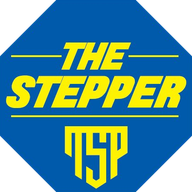
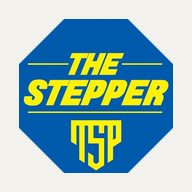
큰 아이콘 바탕·여백, site.webmanifest 추가
- apple-touch-icon(180)·icon-192·icon-512: 투명 없이 #F2F1EC 바탕, 후보 B 배지 둘레 각 변 10% 여백
- tools/favicon/make.cjs 에 --bg · --pad 옵션 (기본 #F2F1EC · 10). 작은 아이콘(favicon.ico·favicon-32x32.png)은 그대로
- site.webmanifest(THE STEPPER, icon-192·512, 바탕·테마색 #F2F1EC) — 14쪽 head 에 링크, .vercelignore 배포 목록에 추가
  (voice.html 은 관리자 음성 답변 앱용 voice-manifest.json 을 이미 써서 넣지 않음 — 한 페이지에 manifest 는 하나만 쓰임)

diff --git a/motion.html b/motion.html
@@ -8,6 +8,7 @@
 <link rel="icon" type="image/png" sizes="32x32" href="/favicon-32x32.png">
 <link rel="icon" type="image/png" sizes="192x192" href="/icon-192.png">
 <link rel="apple-touch-icon" sizes="180x180" href="/apple-touch-icon.png">
+<link rel="manifest" href="/site.webmanifest">
 <meta name="robots" content="noindex, nofollow">
 <!-- ══════════════════════════════════════════════════════════════════
      동작 분석 (파이썬 분석 서버 버전) — 현재 관리자 전용

diff --git a/ai.html b/ai.html
@@ -9,6 +9,7 @@
 <link rel="icon" type="image/png" sizes="32x32" href="/favicon-32x32.png">
 <link rel="icon" type="image/png" sizes="192x192" href="/icon-192.png">
 <link rel="apple-touch-icon" sizes="180x180" href="/apple-touch-icon.png">
+<link rel="manifest" href="/site.webmanifest">
 <link rel="preconnect" href="https://fonts.googleapis.com">
 <meta name="description" content="더스텝퍼 AI 겨루기 코치 - 15단계 커리큘럼 기반 실시간 태권도 겨루기 전술 질문 답변">
 <meta name="keywords" content="더스텝퍼,태권도,겨루기,AI코치,전술,커리큘럼,THE STEPPER">

diff --git a/motion-legacy.html b/motion-legacy.html
@@ -8,6 +8,7 @@
 <link rel="icon" type="image/png" sizes="32x32" href="/favicon-32x32.png">
 <link rel="icon" type="image/png" sizes="192x192" href="/icon-192.png">
 <link rel="apple-touch-icon" sizes="180x180" href="/apple-touch-icon.png">
+<link rel="manifest" href="/site.webmanifest">
 <!-- ══════════════════════════════════════════════════════════════════
      [보관용 백업] 구 동작분석 페이지 (브라우저 MediaPipe 15fps 버전)
 

diff --git a/schedule.html b/schedule.html
@@ -10,6 +10,7 @@
 <link rel="icon" type="image/png" sizes="32x32" href="/favicon-32x32.png">
 <link rel="icon" type="image/png" sizes="192x192" href="/icon-192.png">
 <link rel="apple-touch-icon" sizes="180x180" href="/apple-touch-icon.png">
+<link rel="manifest" href="/site.webmanifest">
 <link rel="preconnect" href="https://fonts.googleapis.com">
 <link rel="preconnect" href="https://firebasestorage.googleapis.com">
 <meta name="description" content="더스텝퍼 - 대한민국 표준 태권도 겨루기 전술 시스템. 15단계 커리큘럼과 전국 세미나.">

diff --git a/contact.html b/contact.html
@@ -9,6 +9,7 @@
 <link rel="icon" type="image/png" sizes="32x32" href="/favicon-32x32.png">
 <link rel="icon" type="image/png" sizes="192x192" href="/icon-192.png">
 <link rel="apple-touch-icon" sizes="180x180" href="/apple-touch-icon.png">
+<link rel="manifest" href="/site.webmanifest">
 <link rel="preconnect" href="https://fonts.googleapis.com">
 <link rel="preconnect" href="https://firebasestorage.googleapis.com">
 <meta name="description" content="더스텝퍼 - 대한민국 표준 태권도 겨루기 전술 시스템. 15단계 커리큘럼과 전국 세미나.">

diff --git a/index.html b/index.html
@@ -9,6 +9,7 @@
 <link rel="icon" type="image/png" sizes="32x32" href="/favicon-32x32.png">
 <link rel="icon" type="image/png" sizes="192x192" href="/icon-192.png">
 <link rel="apple-touch-icon" sizes="180x180" href="/apple-touch-icon.png">
+<link rel="manifest" href="/site.webmanifest">
 <link rel="preconnect" href="https://firebasestorage.googleapis.com">
 <link rel="preconnect" href="https://fonts.googleapis.com">
 <meta name="description" content="더스텝퍼 - 대한민국 표준 태권도 겨루기 전술 시스템. 15단계 커리큘럼과 전국 세미나.">

diff --git a/locations.html b/locations.html
@@ -9,6 +9,7 @@
 <link rel="icon" type="image/png" sizes="32x32" href="/favicon-32x32.png">
 <link rel="icon" type="image/png" sizes="192x192" href="/icon-192.png">
 <link rel="apple-touch-icon" sizes="180x180" href="/apple-touch-icon.png">
+<link rel="manifest" href="/site.webmanifest">
 <link rel="preconnect" href="https://fonts.googleapis.com">
 <link rel="preconnect" href="https://firebasestorage.googleapis.com">
 <meta name="description" content="더스텝퍼 - 대한민국 표준 태권도 겨루기 전술 시스템. 15단계 커리큘럼과 전국 세미나.">

diff --git a/staff.html b/staff.html
@@ -9,6 +9,7 @@
 <link rel="icon" type="image/png" sizes="32x32" href="/favicon-32x32.png">
 <link rel="icon" type="image/png" sizes="192x192" href="/icon-192.png">
 <link rel="apple-touch-icon" sizes="180x180" href="/apple-touch-icon.png">
+<link rel="manifest" href="/site.webmanifest">
 <link rel="preconnect" href="https://firebasestorage.googleapis.com">
 <link rel="preconnect" href="https://fonts.googleapis.com">
 <meta name="description" content="더스텝퍼 - 대한민국 표준 태권도 겨루기 전술 시스템. 15단계 커리큘럼과 전국 세미나.">

diff --git a/board.html b/board.html
@@ -9,6 +9,7 @@
 <link rel="icon" type="image/png" sizes="32x32" href="/favicon-32x32.png">
 <link rel="icon" type="image/png" sizes="192x192" href="/icon-192.png">
 <link rel="apple-touch-icon" sizes="180x180" href="/apple-touch-icon.png">
+<link rel="manifest" href="/site.webmanifest">
 <link rel="preconnect" href="https://fonts.googleapis.com">
 <meta name="description" content="더스텝퍼 겨루기 관련 궁금증을 1:1로 문의하세요. 빠르게 답변드립니다.">
 <meta name="keywords" content="더스텝퍼,태권도,겨루기,문의,THE STEPPER">

diff --git a/virtual.html b/virtual.html
@@ -9,6 +9,7 @@
 <link rel="icon" type="image/png" sizes="32x32" href="/favicon-32x32.png">
 <link rel="icon" type="image/png" sizes="192x192" href="/icon-192.png">
 <link rel="apple-touch-icon" sizes="180x180" href="/apple-touch-icon.png">
+<link rel="manifest" href="/site.webmanifest">
 <link rel="preconnect" href="https://fonts.googleapis.com">
 <meta name="description" content="THE STEPPER VR 버추얼 태권도 시스템 - PICO 독점 계약, 현실과 가상의 경계를 허무는 새로운 태권도 경험">
 <meta property="og:type" content="website">

diff --git a/quiz.html b/quiz.html
@@ -8,6 +8,7 @@
 <link rel="icon" type="image/png" sizes="32x32" href="/favicon-32x32.png">
 <link rel="icon" type="image/png" sizes="192x192" href="/icon-192.png">
 <link rel="apple-touch-icon" sizes="180x180" href="/apple-touch-icon.png">
+<link rel="manifest" href="/site.webmanifest">
 <meta name="description" content="THE STEPPER 태권도 겨루기 OX 퀴즈 — 초등학생을 위한 재미있는 겨루기 상식 퀴즈 게임">
 <title>OX 겨루기 퀴즈 — THE STEPPER</title>
 <link rel="preconnect" href="https://fonts.googleapis.com">

diff --git a/gallery.html b/gallery.html
@@ -8,6 +8,7 @@
 <link rel="icon" type="image/png" sizes="32x32" href="/favicon-32x32.png">
 <link rel="icon" type="image/png" sizes="192x192" href="/icon-192.png">
 <link rel="apple-touch-icon" sizes="180x180" href="/apple-touch-icon.png">
+<link rel="manifest" href="/site.webmanifest">
 <link rel="preconnect" href="https://firebasestorage.googleapis.com">
 <link rel="preconnect" href="https://fonts.googleapis.com">
 <meta name="description" content="더스텝퍼 세미나와 활동 현장 사진.">
